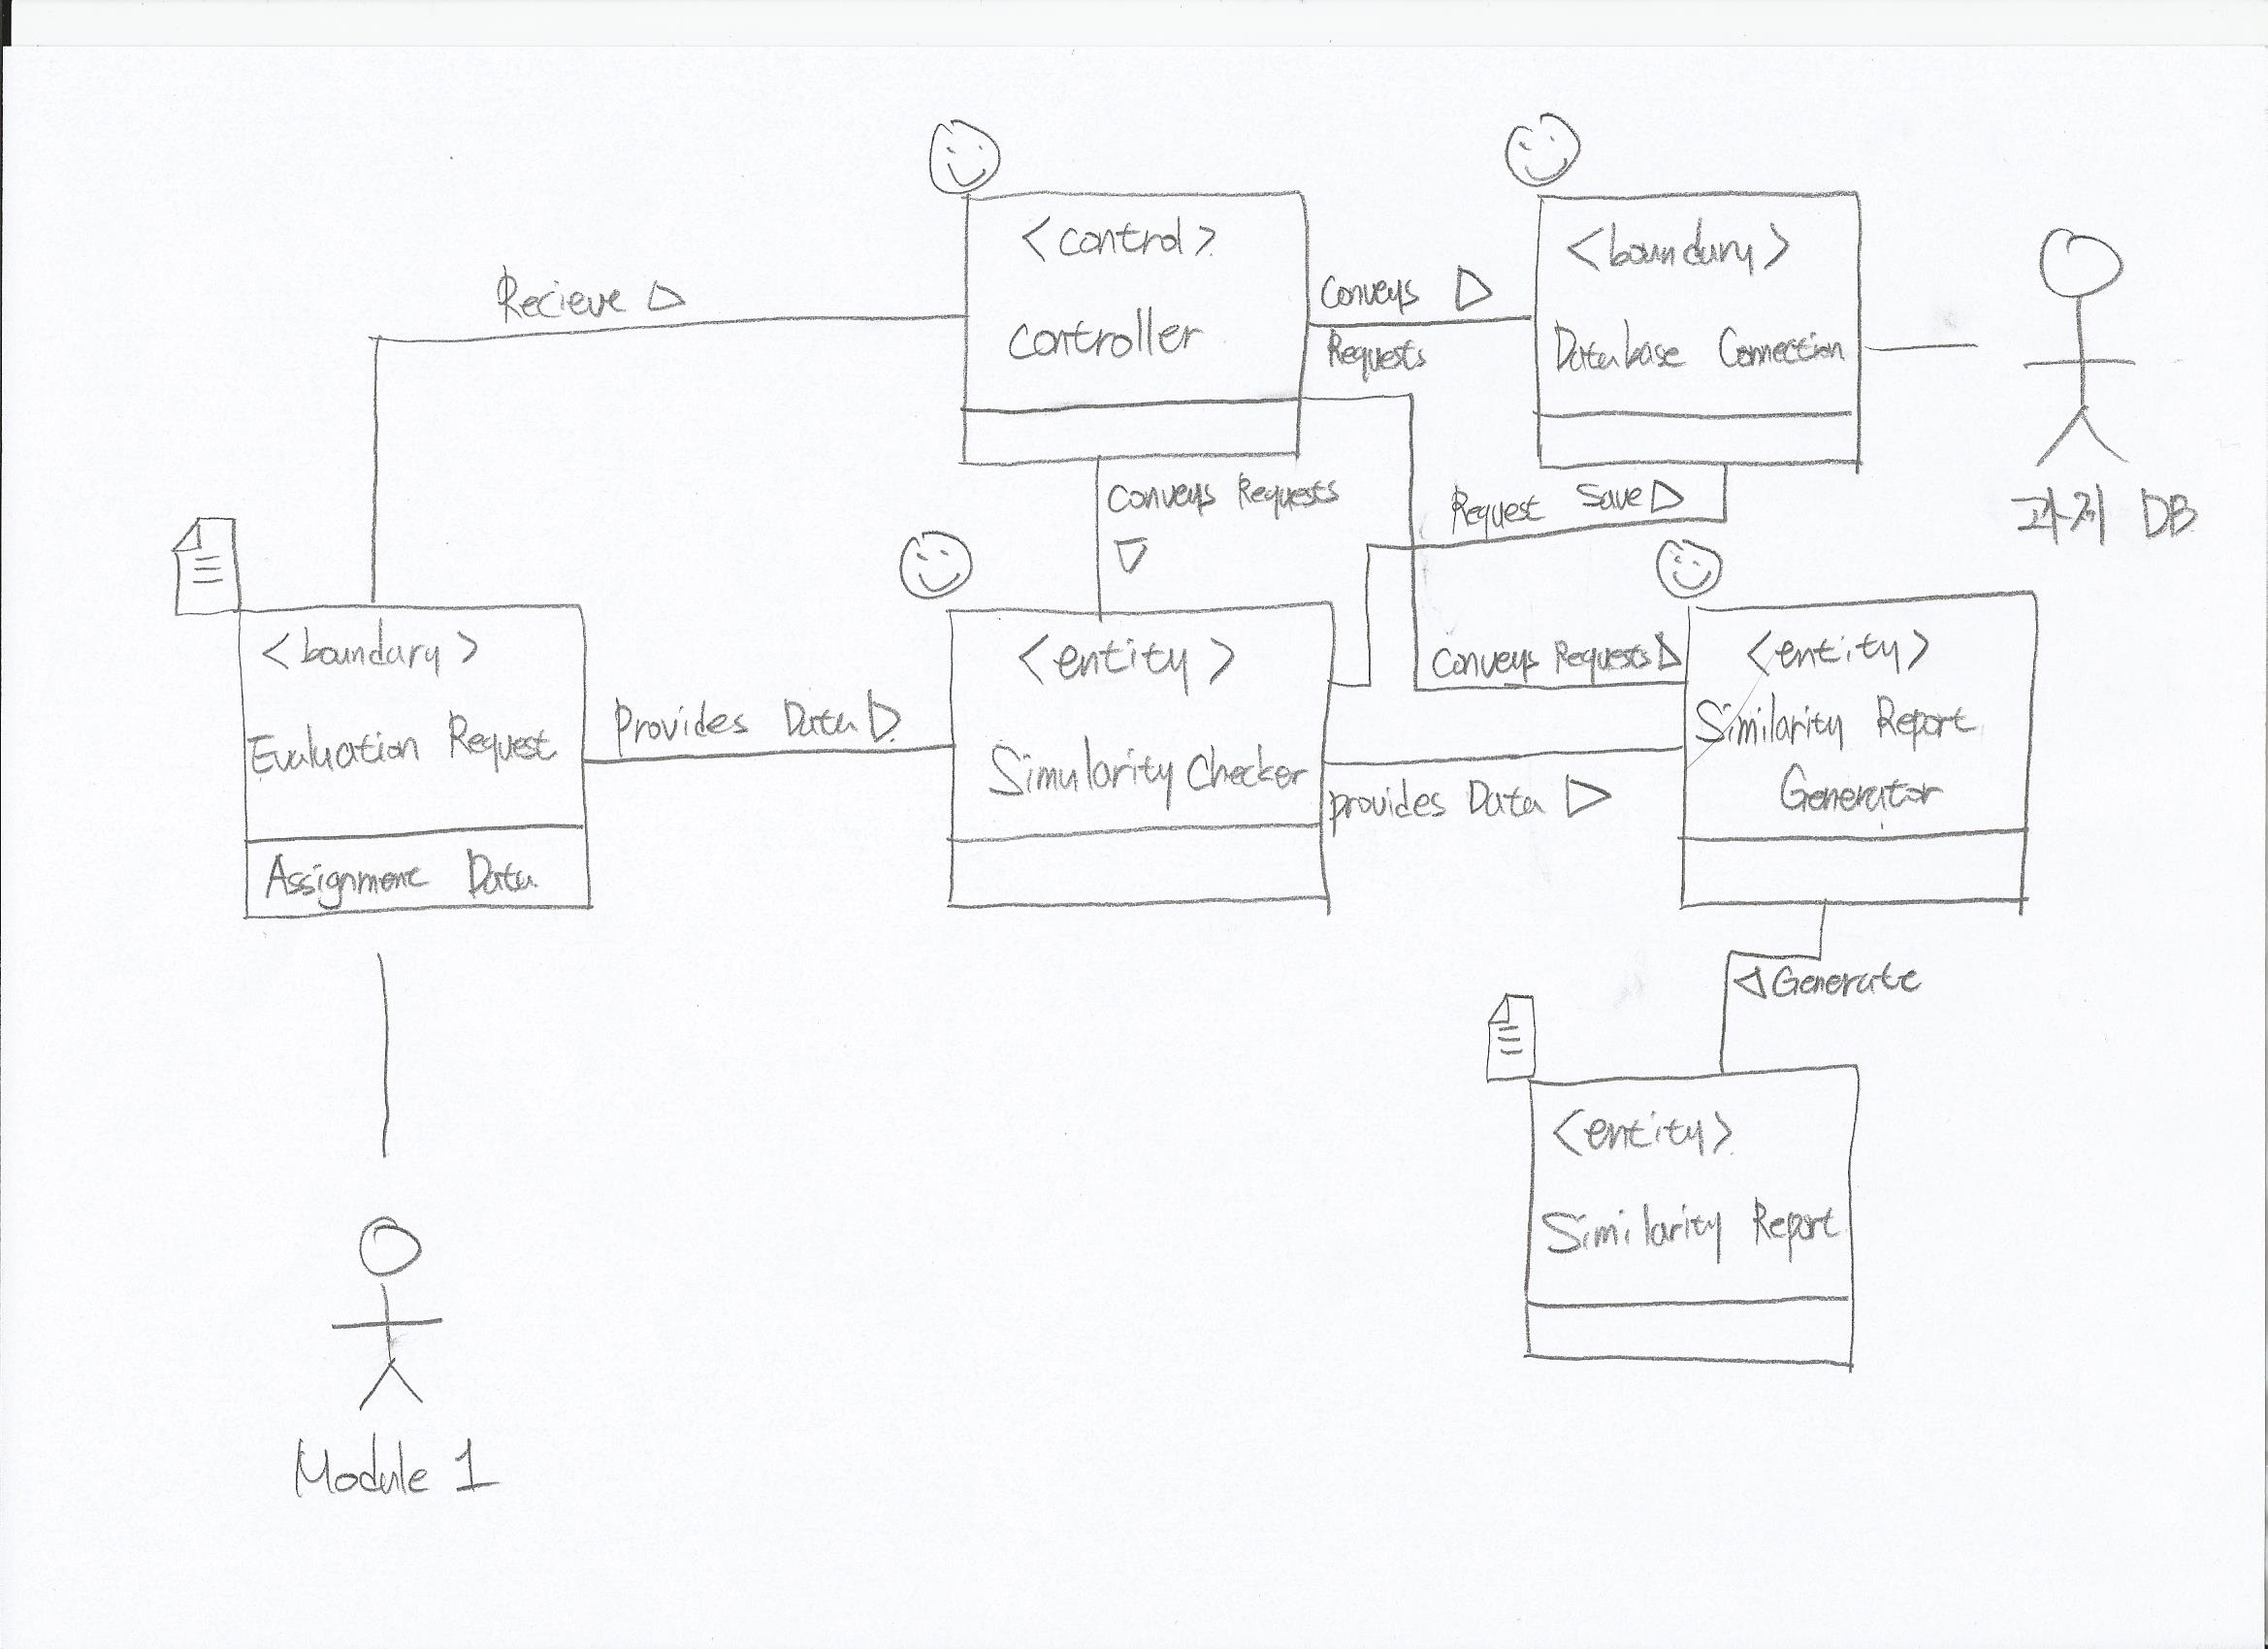
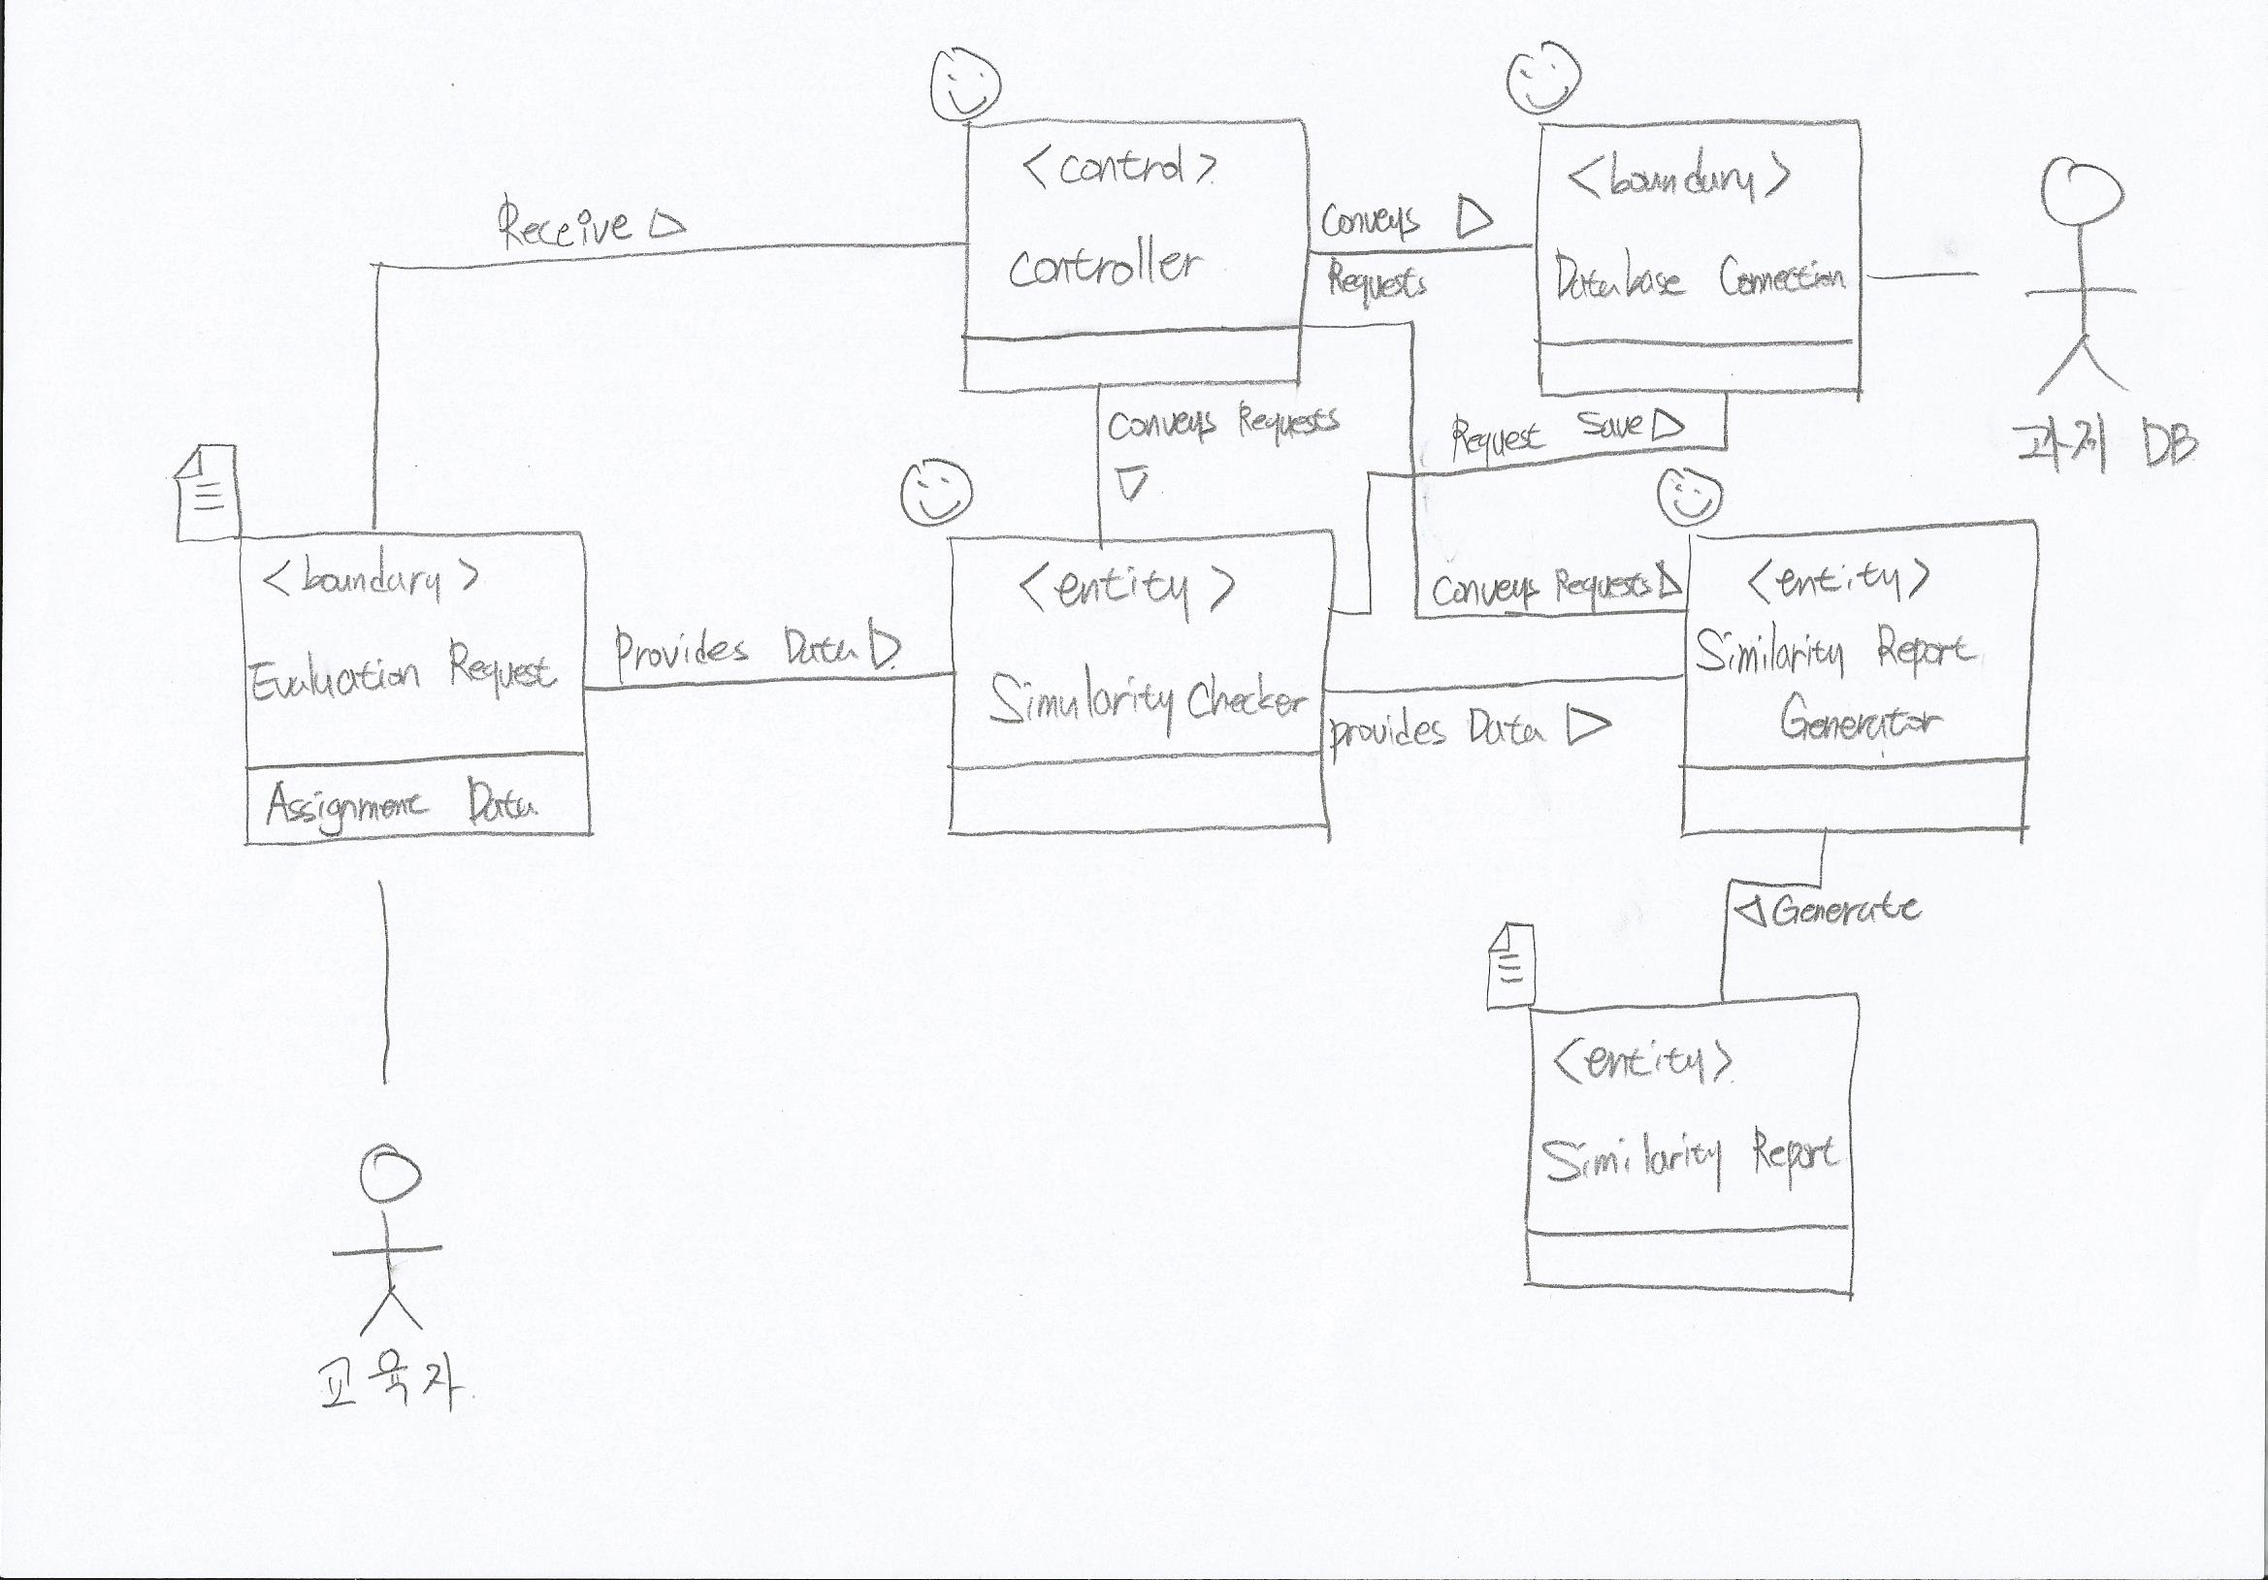
Module3-DM302

diff --git a/Use Case/Module3_SystemCore/Use Case 302 - 유사도 검사.md b/Use Case/Module3_SystemCore/Use Case 302 - 유사도 검사.md
@@ -3,7 +3,7 @@
 | | UC-302: 유사도 검사|
 | - | - |
 | __Related REQ__          | FR5 |
-| __Initiating Actor__     | Module1_Educator |
+| __Initiating Actor__     | 교육자 |
 | __Actor's Goal__         | 제출된 과제들 사이의 유사도를 검사하고 해당 결과를 반환한다. |
 | __Participating Actors__ | 데이터베이스 |
 | __Preconditions__        | 제출된 과제가 두 개 이상이어야 함 |
@@ -11,7 +11,7 @@
 
 |      | Flow of Events for Main Success Scenario |
 | - | - |
-| ->   | 1. 학생이 모두 과제를 제출하여 교육자의 요청에 의해 유사도 검사가 시작됨. |
+| ->   | 1. 교육자가 제출물 유사도 검사 버튼을 누르거나, 과제가 마감되는 시점에 유사도 검사가 시작됨. |
 | <-   | 2. 시스템은 데이터베이스에서 제출 완료된 자료들에 한해 유사도 검사를 실시하고, 그 결과를 데이터베이스에 반환한다. | 
 
 

diff --git a/Domain Model/Module3_SystemCore/Domain Model 302.md b/Domain Model/Module3_SystemCore/Domain Model 302.md
@@ -13,7 +13,7 @@
 ## Associations
 | Concept Pair | Association Description | Association Name |
 | - | - | - |
-| Controller <-> Evaluation Request | 주어진 과제에 대한 정보를 가져온다 | Recieve |
+| Controller <-> Evaluation Request | 주어진 과제에 대한 정보를 가져온다 | Receive |
 | Controller <-> Database Connection | 데이터베이스에 저장되어 있는 과제들의 정보를 요청한다. | Conveys Requests |
 | Controller <-> Similarity Checker | 컨트롤러가 유사도 검사를 요청한다 | Conveys Requests |
 | Similarity Checker <-> Evaluation Request | 검사에 필요한 정보를 제공한다. | Provides Data |
